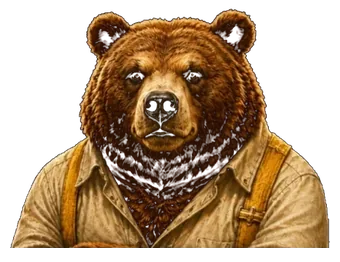
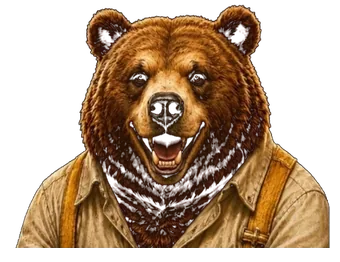
fix(forest-gang): give the board's win fallback its own animal art
A winning animal whose sheets had not loaded fell through to winSpriteKeyByName,
which pointed every animal at its BASE tile - so the fallback showed the idle
pose on a win. Landscape has had dedicated *_win art all along; desktop and
portrait never did.

Generate {fox,wolf,bear,rabbit,squirrel}_win.webp at root and map the animals in
winSpriteKeyByName to new *WinTile keys, mirroring winSpriteKeyByNameLandscape.

Take the win still from the clip's LAST frame, not frame 0. The win clips start
neutral, build to the celebration and hold on the final frame (loop=false), so
frame 0 of a win sheet is the wind-up and reads as the plain idle bust - the pose
players actually see persist is the last one. The landscape win tiles are
regenerated on the same rule. Idle and money sheets keep frame 0: they start from
their rest pose, so the still hands off to the clip seamlessly.

diff --git a/apps/forest-gang/src/game/assets.ts b/apps/forest-gang/src/game/assets.ts
@@ -113,6 +113,14 @@ const assets = {
 	bearTile:     { type: 'sprite', src: './assets/components/symbols/bear.webp?v=20260722' },
 	rabbitTile:   { type: 'sprite', src: './assets/components/symbols/rabbit.webp?v=20260722' },
 	squirrelTile: { type: 'sprite', src: './assets/components/symbols/squirrel.webp?v=20260722' },
+	// Win-state stills for the animals: the held final frame of each *WinNew clip, so a win whose
+	// sheets have not loaded shows the celebration pose instead of the idle bust. Landscape has had
+	// its own set all along (*WinTileLs below); these are the desktop/portrait counterparts.
+	foxWinTile:      { type: 'sprite', src: './assets/components/symbols/fox_win.webp?v=20260728' },
+	wolfWinTile:     { type: 'sprite', src: './assets/components/symbols/wolf_win.webp?v=20260728' },
+	bearWinTile:     { type: 'sprite', src: './assets/components/symbols/bear_win.webp?v=20260728' },
+	rabbitWinTile:   { type: 'sprite', src: './assets/components/symbols/rabbit_win.webp?v=20260728' },
+	squirrelWinTile: { type: 'sprite', src: './assets/components/symbols/squirrel_win.webp?v=20260728' },
 	aExpTile: { type: 'sprite', src: './assets/components/symbols/card_a.webp?v=20260723' },
 	kExpTile: { type: 'sprite', src: './assets/components/symbols/card_k.webp?v=20260723' },
 	qExpTile: { type: 'sprite', src: './assets/components/symbols/card_q.webp?v=20260723' },

diff --git a/apps/forest-gang/src/game/utils.ts b/apps/forest-gang/src/game/utils.ts
@@ -165,15 +165,18 @@ export const winSpriteKeyByNameLandscape: Record<string, string> = {
 	SCATTER: 'scatterCustomLs',
 };
 
-// Win-state board sprites on reel. Letters are absent on purpose: Board draws a winning letter
-// from this map's fallback (its CLEAN base tile) with a continuous pulse, so the old dedicated
-// card_*_win art was never reached and has been deleted along with its keys.
+// Win-state board sprites on reel. Animals point at their own win still (the held final frame of
+// the win clip) rather than the base tile, so a win that falls back to a static shows the
+// celebration pose, not the idle one — matching what the landscape map has always done.
+// Letters are absent on purpose: Board draws a winning letter from this map's fallback (its CLEAN
+// base tile) with a continuous pulse, so the old dedicated card_*_win art was never reached and
+// has been deleted along with its keys.
 export const winSpriteKeyByName: Record<string, string> = {
-	FOX: 'foxTile',
-	WOLF: 'wolfTile',
-	BEAR: 'bearTile',
-	RABBIT: 'rabbitTile',
-	SQUIRREL: 'squirrelTile',
+	FOX: 'foxWinTile',
+	WOLF: 'wolfWinTile',
+	BEAR: 'bearWinTile',
+	RABBIT: 'rabbitWinTile',
+	SQUIRREL: 'squirrelWinTile',
 	WILD: 'wildWinTile',
 	SCATTER: 'scatterWin',
 };

diff --git a/apps/forest-gang/tools/assets/sprites/generate_static_from_anim.py b/apps/forest-gang/tools/assets/sprites/generate_static_from_anim.py
@@ -8,9 +8,12 @@ The shipped statics were the OLD pre-redesign art with a per-animal coloured fra
 (squirrel red, fox purple, wolf blue, ...), so a fallback painted that frame on top of the shared
 brown `animal_border.webp` the reels draw underneath — two mismatched frames.
 
-Frame 0 of each sheet IS the animation's rest pose, so it is the correct still. The busts stay
-FRAMELESS and transparent: Board draws animalBorder underneath (Board.svelte:504) and the static
-on top (:564), so a baked frame would double up.
+Which frame substitutes for a clip depends on how the clip plays. The idle and money sheets start
+from their rest pose, so frame 0 is the seamless still for them. The WIN sheets are the opposite:
+the clip starts neutral, builds to the celebration and HOLDS on its final frame (loop=false), so
+frame 0 of a win sheet looks exactly like the idle bust — the correct win still is the LAST frame,
+the pose players see persist. The busts stay FRAMELESS and transparent: Board draws animalBorder
+underneath (Board.svelte:504) and the static on top (:564), so a baked frame would double up.
 
 Geometry: the static Sprite is drawn at symbol{W,H} * idleFit, which lands inside the frame's
 inner panel (PANEL_W_FRAC/PANEL_H_FRAC of the border), so a bust filling FILL of a cell-aspect
@@ -42,15 +45,15 @@ Y_BIAS = -0.02
 QUALITY = 82  # matches the repo-wide lossy re-encode (58598f1)
 
 
-def sheet_frame0(folder: str) -> Image.Image:
-    """First frame of a sprite sheet — the pose the animation rests on."""
+def sheet_frame(folder: str, index: int = 0) -> Image.Image:
+    """A frame of a sprite sheet by position — 0 is the rest pose, -1 the held final pose."""
     d = SPRITES / folder
     meta_path = next(d.glob("*.json"))
     data = json.loads(meta_path.read_text())
     anims = data.get("animations") or {}
     # animations[] is ordered; fall back to the frames dict for sheets that declare no animation
-    name = list(anims.values())[0][0] if anims else next(iter(data["frames"]))
-    box = data["frames"][name]["frame"]
+    names = list(anims.values())[0] if anims else list(data["frames"])
+    box = data["frames"][names[index]]["frame"]
     # meta.image can carry a ?v= cache-buster that is not part of the filename on disk
     src = Image.open(d / data["meta"]["image"].split("?")[0]).convert("RGBA")
     return src.crop((box["x"], box["y"], box["x"] + box["w"], box["y"] + box["h"]))
@@ -73,29 +76,38 @@ def main() -> None:
     jobs = []
     for a in ANIMALS:
         # <animal>.webp and landscape/<animal>.webp — the base-state reel fallback (idle sheet)
-        jobs.append((SYMBOLS / f"{a}.webp", f"{a}IdleAnim", True))
-        jobs.append((SYMBOLS / "landscape" / f"{a}.webp", f"{a}IdleAnim", True))
-        # landscape/<animal>_win.webp — the win-state fallback (win sheet)
-        jobs.append((SYMBOLS / "landscape" / f"{a}_win.webp", f"{a}WinNew", True))
-        # <animal>_expand.webp — the expanded column (money sheet). Already the right aspect and
-        # NOT a cutout: the money frame is the whole column, so it is written at native size
-        # rather than fitted, which also drops it from ~150KB to a few KB.
-        jobs.append((SYMBOLS / f"{a}_expand.webp", f"{a}Money", False))
+        jobs.append((SYMBOLS / f"{a}.webp", f"{a}IdleAnim", True, 0, None))
+        jobs.append((SYMBOLS / "landscape" / f"{a}.webp", f"{a}IdleAnim", True, 0, None))
+        # <animal>_win.webp — the win-state fallback: the win clip's HELD final frame (frame 0 is
+        # the neutral wind-up and reads as the plain idle bust). Landscape always had its own win
+        # tiles; desktop/portrait used to reuse the base tile, so a winning animal whose sheets had
+        # not loaded showed its idle pose. Sized off the animal's base tile (same cell aspect).
+        jobs.append((SYMBOLS / f"{a}_win.webp", f"{a}WinNew", True, -1, SYMBOLS / f"{a}.webp"))
+        jobs.append((SYMBOLS / "landscape" / f"{a}_win.webp", f"{a}WinNew", True, -1, None))
+        # <animal>_expand.webp — the expanded column (money sheet). Frame 0 on purpose: the overlay
+        # shows this only until the clip streams in, and the clip starts at frame 0, so the rest
+        # pose hands off seamlessly. Already the right aspect and NOT a cutout: the money frame is
+        # the whole column, so it is written at native size rather than fitted, which also drops it
+        # from ~150KB to a few KB.
+        jobs.append((SYMBOLS / f"{a}_expand.webp", f"{a}Money", False, 0, None))
 
-    for dst, folder, fit in jobs:
-        if not dst.exists():
-            print(f"  skip (no such file) {dst.relative_to(ROOT)}")
+    for dst, folder, fit, index, size_from in jobs:
+        # A tile that does not exist yet borrows its canvas from `size_from` (same cell aspect).
+        ref = dst if dst.exists() else size_from
+        if ref is None or not ref.exists():
+            print(f"  skip (no canvas reference) {dst.relative_to(ROOT)}")
             continue
-        before = dst.stat().st_size
-        old_size = Image.open(dst).size
-        bust = sheet_frame0(folder)
-        out = fit_into(bust, old_size) if fit else bust
+        before = dst.stat().st_size if dst.exists() else 0
+        canvas = Image.open(ref).size
+        bust = sheet_frame(folder, index)
+        out = fit_into(bust, canvas) if fit else bust
         if dry:
-            print(f"  {dst.relative_to(ROOT)}  {old_size} <- {folder} frame0 {bust.size}")
+            print(f"  {dst.relative_to(ROOT)}  {canvas} <- {folder}[{index}] {bust.size}")
             continue
         out.save(dst, "WEBP", quality=QUALITY, method=6)
         after = dst.stat().st_size
-        print(f"  {str(dst.relative_to(ROOT)):46s} {before/1024:7.1f}K -> {after/1024:6.1f}K  ({folder})")
+        was = f"{before/1024:7.1f}K" if before else "    new"
+        print(f"  {str(dst.relative_to(ROOT)):46s} {was} -> {after/1024:6.1f}K  ({folder}[{index}])")
 
 
 if __name__ == "__main__":
